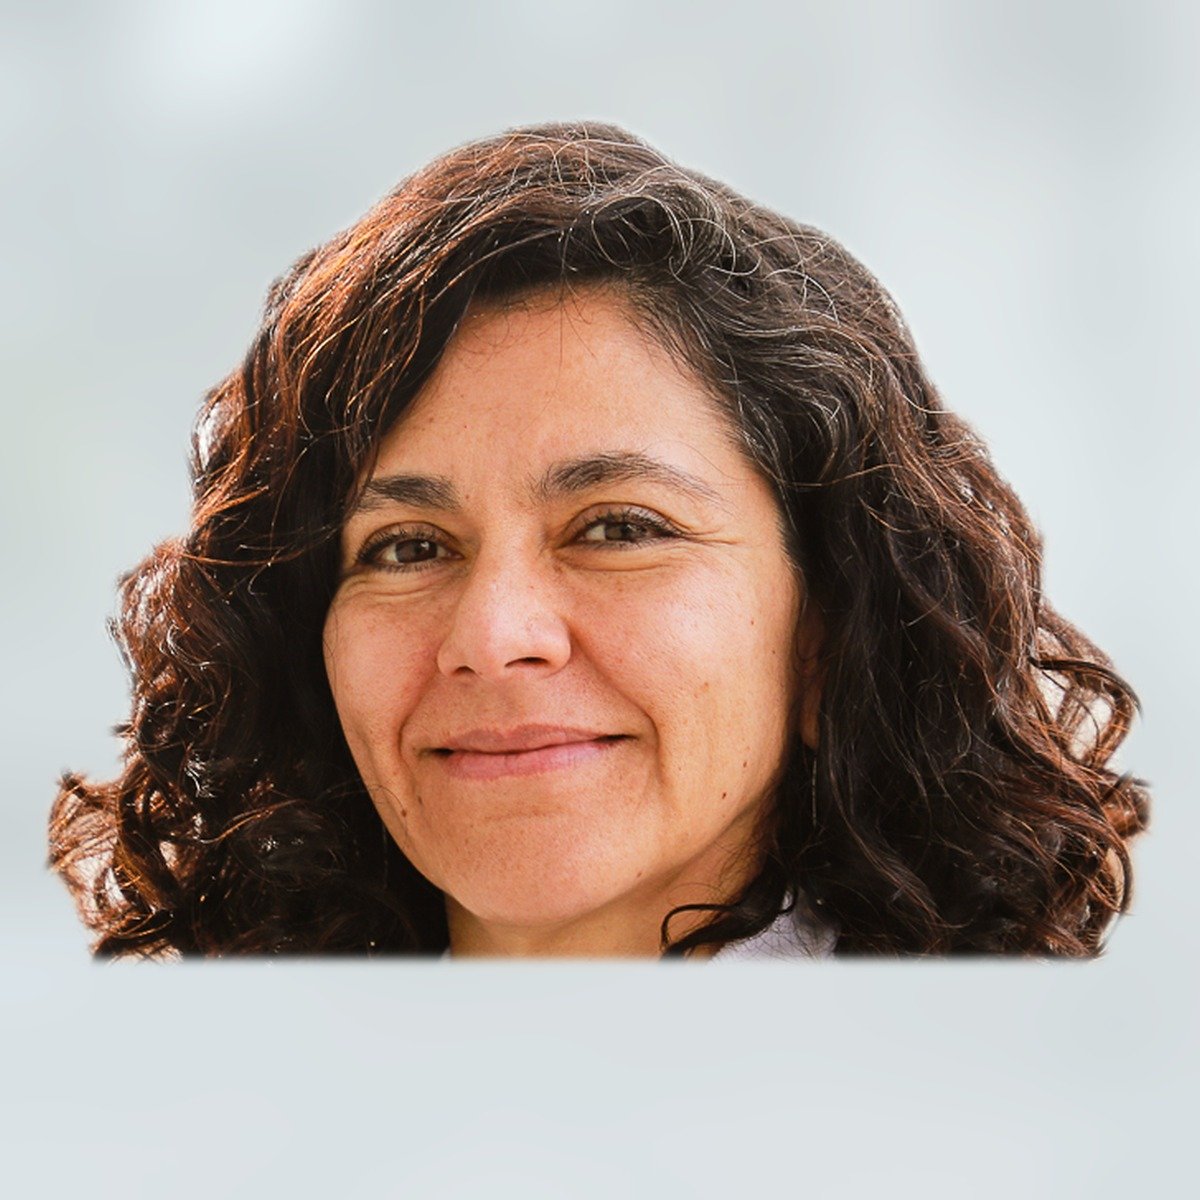
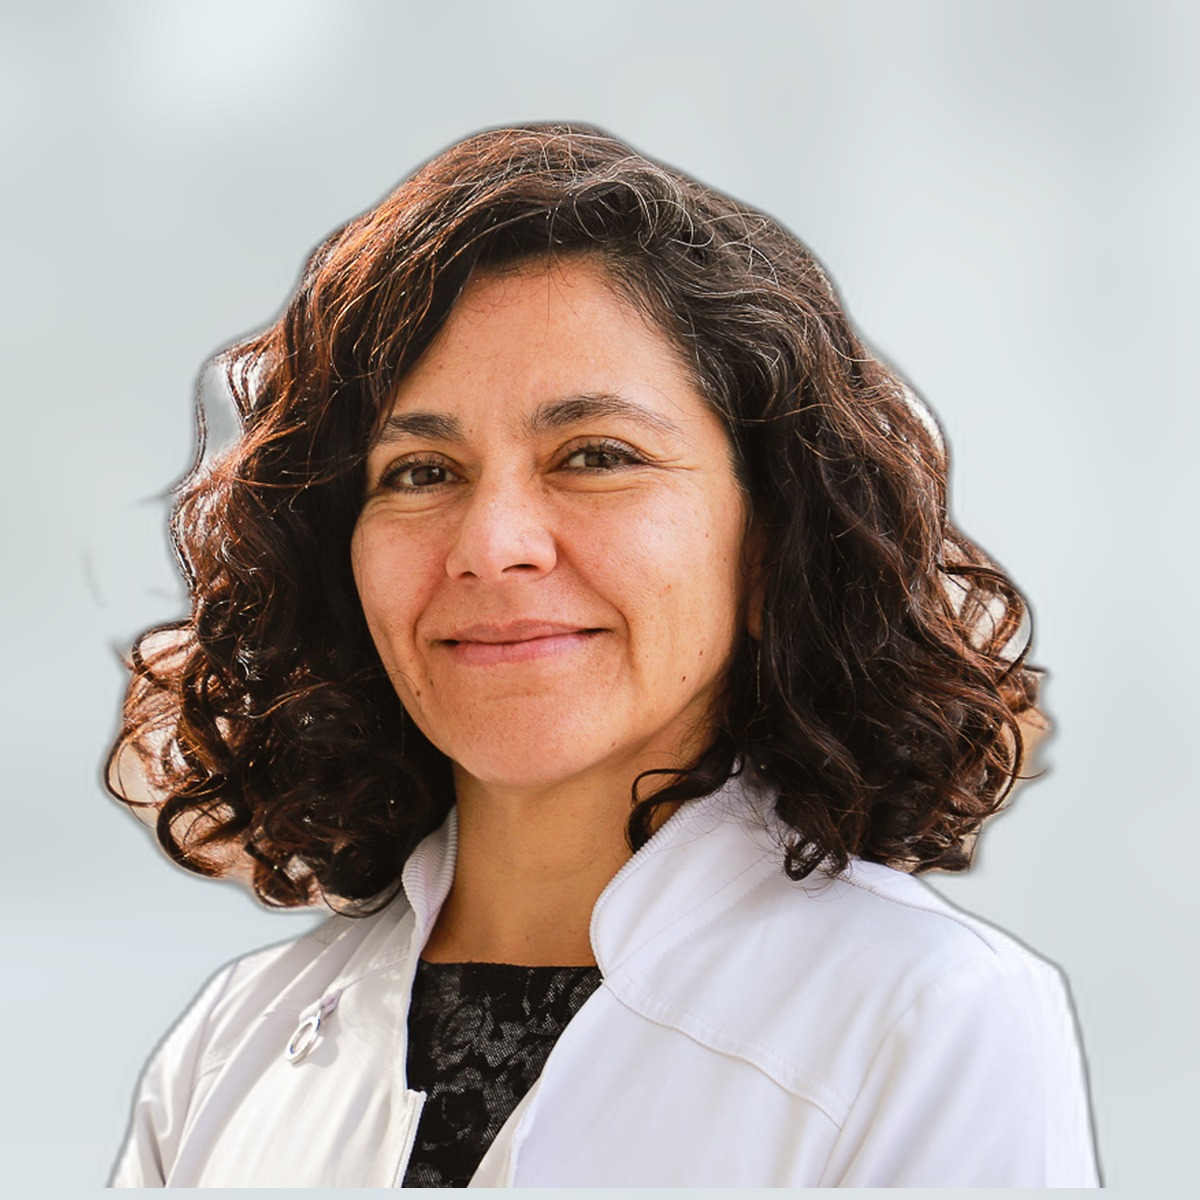
Fotos de perfil homogéneas con fondo institucional; agregar foto de Andrea Helo y Carlos Ibáñez

diff --git a/content/academicos/carlos-ibanez/index.md b/content/academicos/carlos-ibanez/index.md
@@ -10,6 +10,7 @@ temas:
   - neurologia-clinica-traslacional
   - neurociencia-cognitiva
   - "Adicciones"
+image: "/uploads/carlos-ibanez.jpg"
 afiliacion:
   - texto: "Departamento de Neurociencia"
   - texto: "Departamento de psiquiatría y salud mental norte"

diff --git a/content/academicos/andrea-helo/index.md b/content/academicos/andrea-helo/index.md
@@ -12,6 +12,7 @@ temas:
   - "EEG"
   - "Eye tracking"
   - "Desarrollo del lenguaje"
+image: "/uploads/andrea-helo.jpg"
 afiliacion:
   - texto: "Departamento de Neurociencia"
   - texto: "Departamento de Fonoaudiología"
